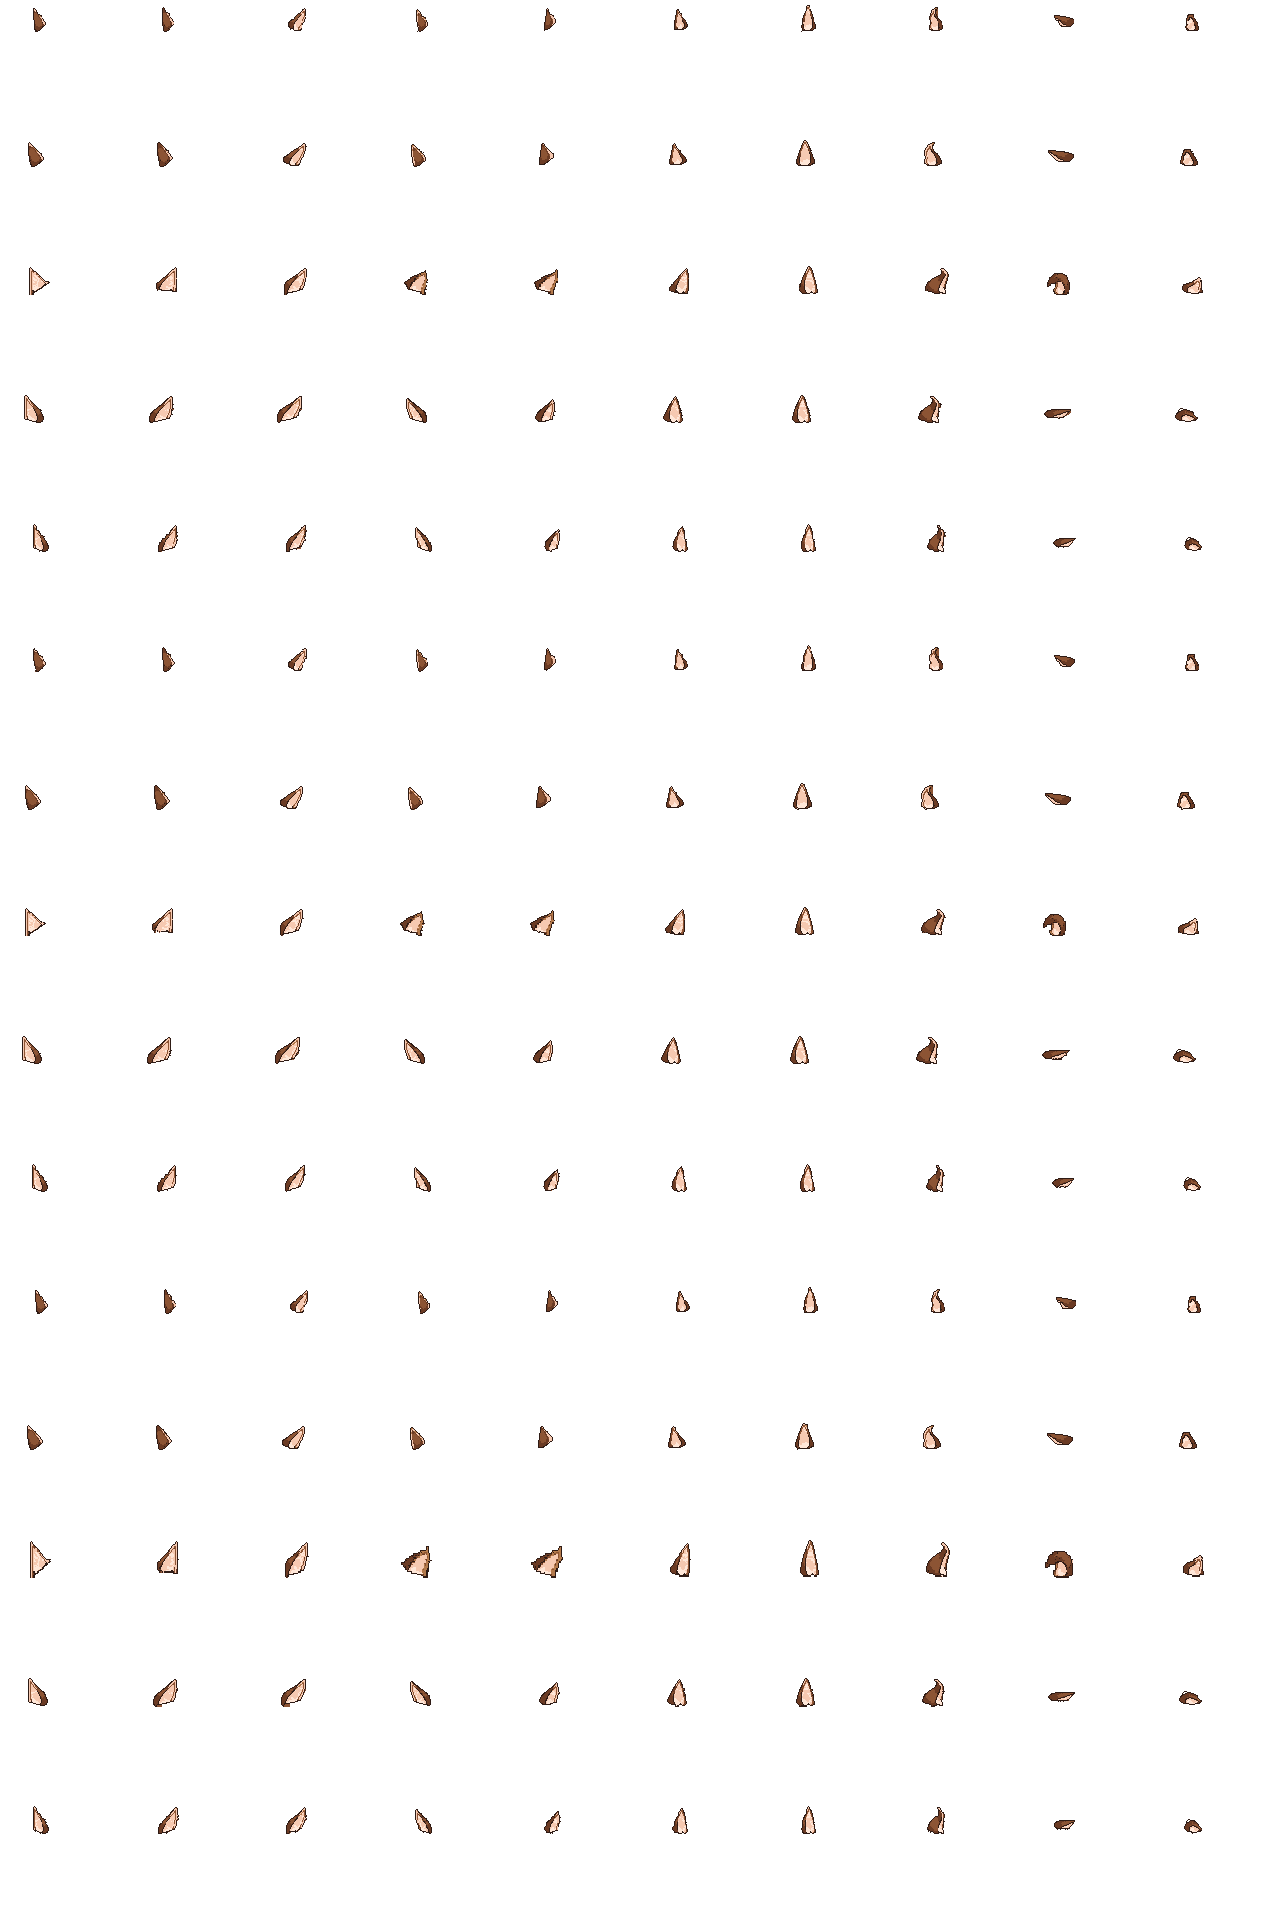
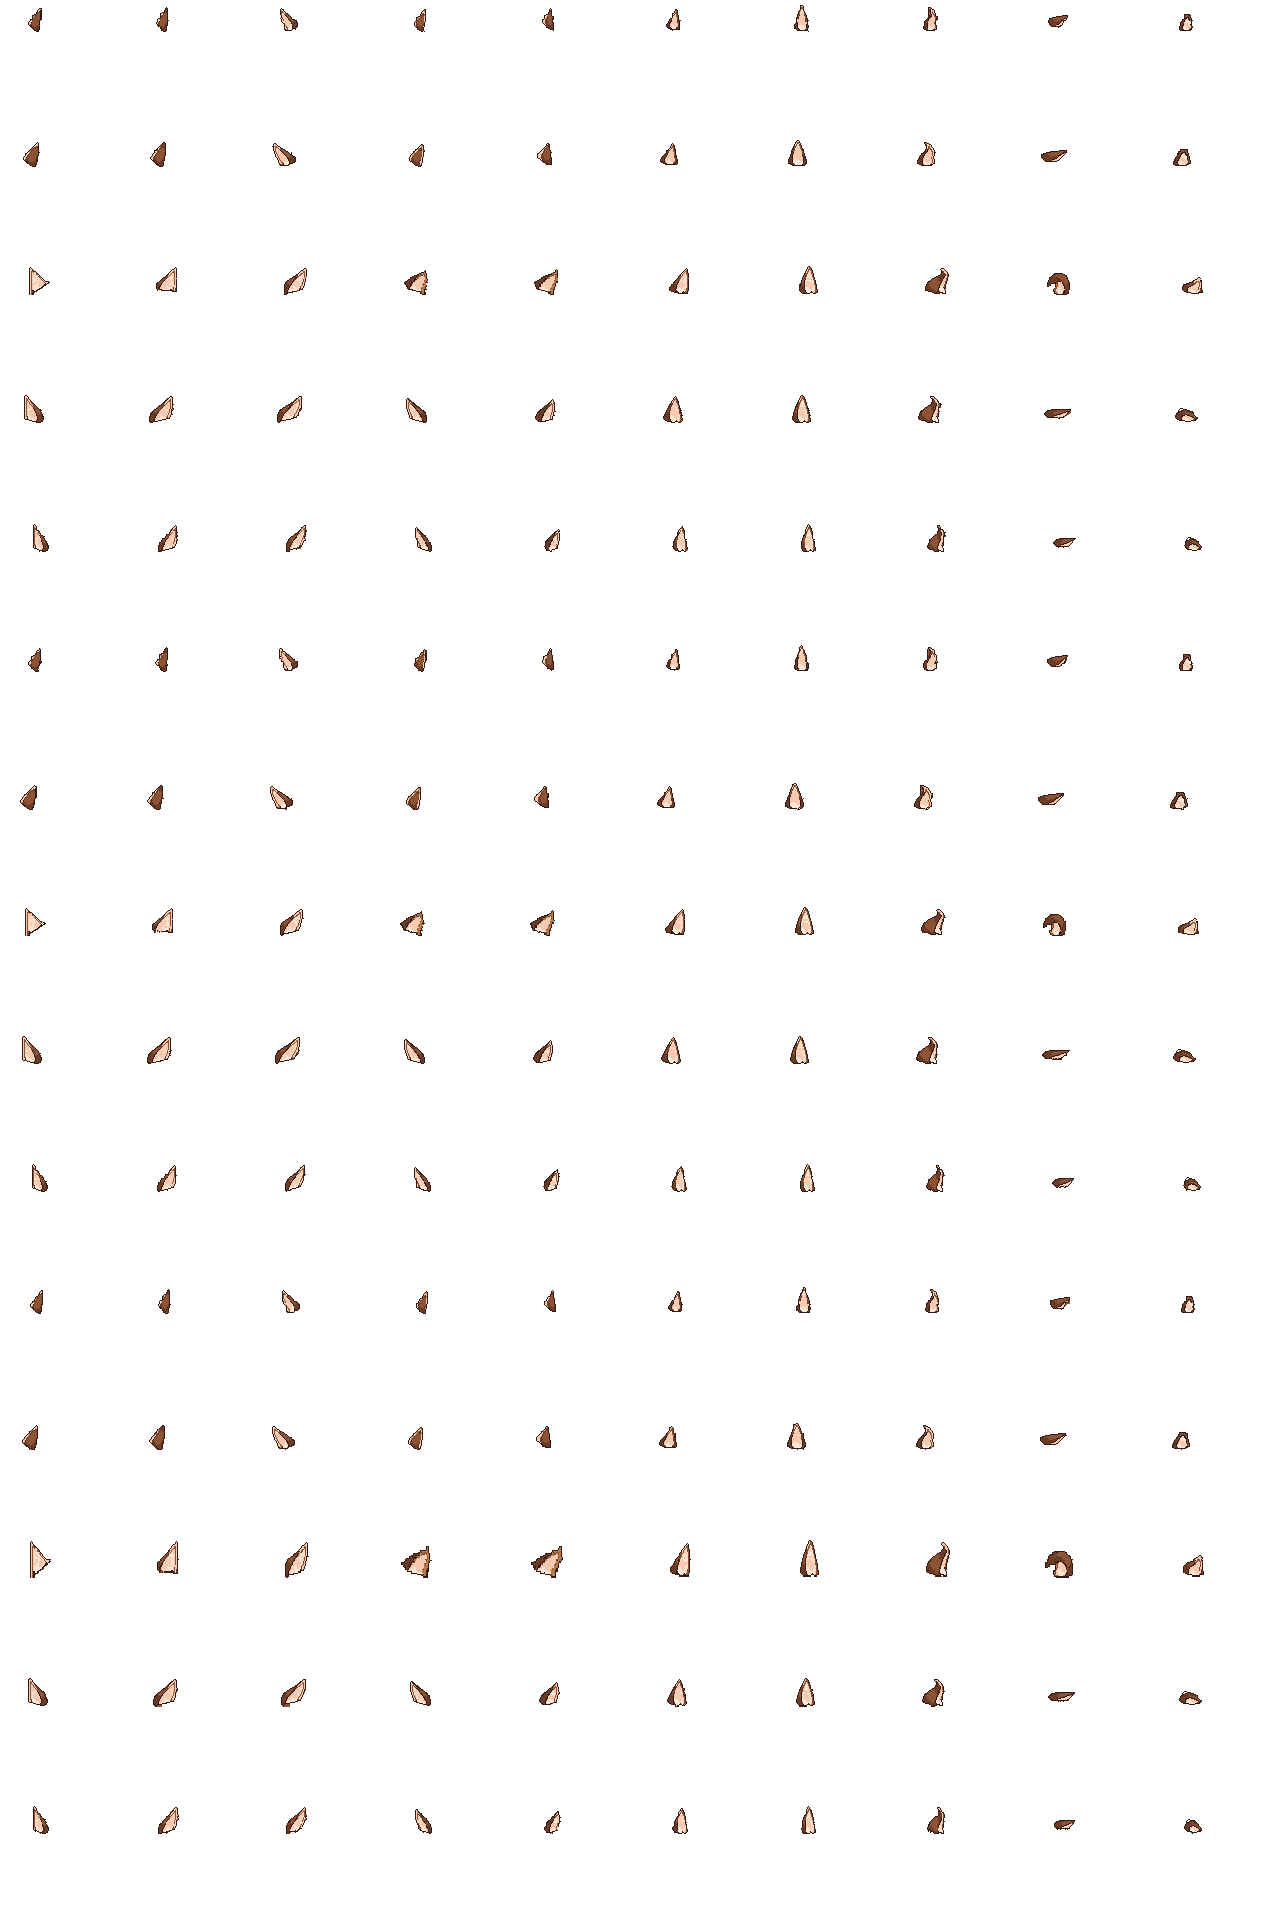
fox65m: mirror far ears at yaw ±1/±2 about their roots so they slant outward/back like yaw 0, cache fox65m

diff --git a/js/app.js b/js/app.js
@@ -8,9 +8,9 @@ const canvas = $('c'), ctx = canvas.getContext('2d');
 const video = $('video');
 const off = document.createElement('canvas'), octx = off.getContext('2d');      // 원본 해상도 합성
 const hc = document.createElement('canvas'), hctx = hc.getContext('2d');        // 머리 그룹 (롤 회전용)
-import { mic, startMic, micTick } from './mic.js?v=20261021-fox65l';
-import { createTail, tailStep } from './tail.js?v=20261021-fox65l';
-import { createEars, earStep } from './ears.js?v=20261021-fox65l';
+import { mic, startMic, micTick } from './mic.js?v=20261021-fox65m';
+import { createTail, tailStep } from './tail.js?v=20261021-fox65m';
+import { createEars, earStep } from './ears.js?v=20261021-fox65m';
 const earSt = createEars(); let earLast = 0;
 const CHARS = { fox65: 'assets/fox65/', fox64: 'assets/fox64/', fox63: 'assets/fox63/', fox62: 'assets/fox62/', fox61: 'assets/fox61/', fox6: 'assets/fox6/', fox53: 'assets/fox53/', fox52: 'assets/fox52/', fox51: 'assets/fox51/', fox5: 'assets/fox5/', fox4: 'assets/fox4/', fox3: 'assets/fox3/', fox2: 'assets/fox2/', test: 'assets/test/' };
 let ch = null; // {key, base, m, img, S}

diff --git a/index.html b/index.html
@@ -1,6 +1,6 @@
 <!doctype html><html lang="ko"><head><meta charset="utf-8">
 <meta name="viewport" content="width=device-width,initial-scale=1,viewport-fit=cover">
-<title>픽셀 VTuber — 퇴근여우</title><link rel="icon" href="data:,"><link rel="stylesheet" href="style.css?v=20261021-fox65l"></head><body>
+<title>픽셀 VTuber — 퇴근여우</title><link rel="icon" href="data:,"><link rel="stylesheet" href="style.css?v=20261021-fox65m"></head><body>
 <div id="stage"><canvas id="c" width="96" height="96"></canvas></div>
 <div id="hud"><span id="fps">FPS: -</span> <span id="status">대기 중</span> <span id="pose"></span><div id="meter" hidden>신남 <span class="track"><span id="meterBar"></span></span></div></div>
 <video id="video" playsinline muted autoplay></video>
@@ -26,4 +26,4 @@
  <button id="clean">클린 뷰 (OBS용)</button>
  <p class="hint">단축키: 1 자동 · 2 웃음 · 3 피곤 · 4 놀람 · 5 의기양양 · h 클린 뷰 · Esc/더블탭 해제</p>
 </div>
-<script type="module" src="js/app.js?v=20261021-fox65l"></script></body></html>
+<script type="module" src="js/app.js?v=20261021-fox65m"></script></body></html>
